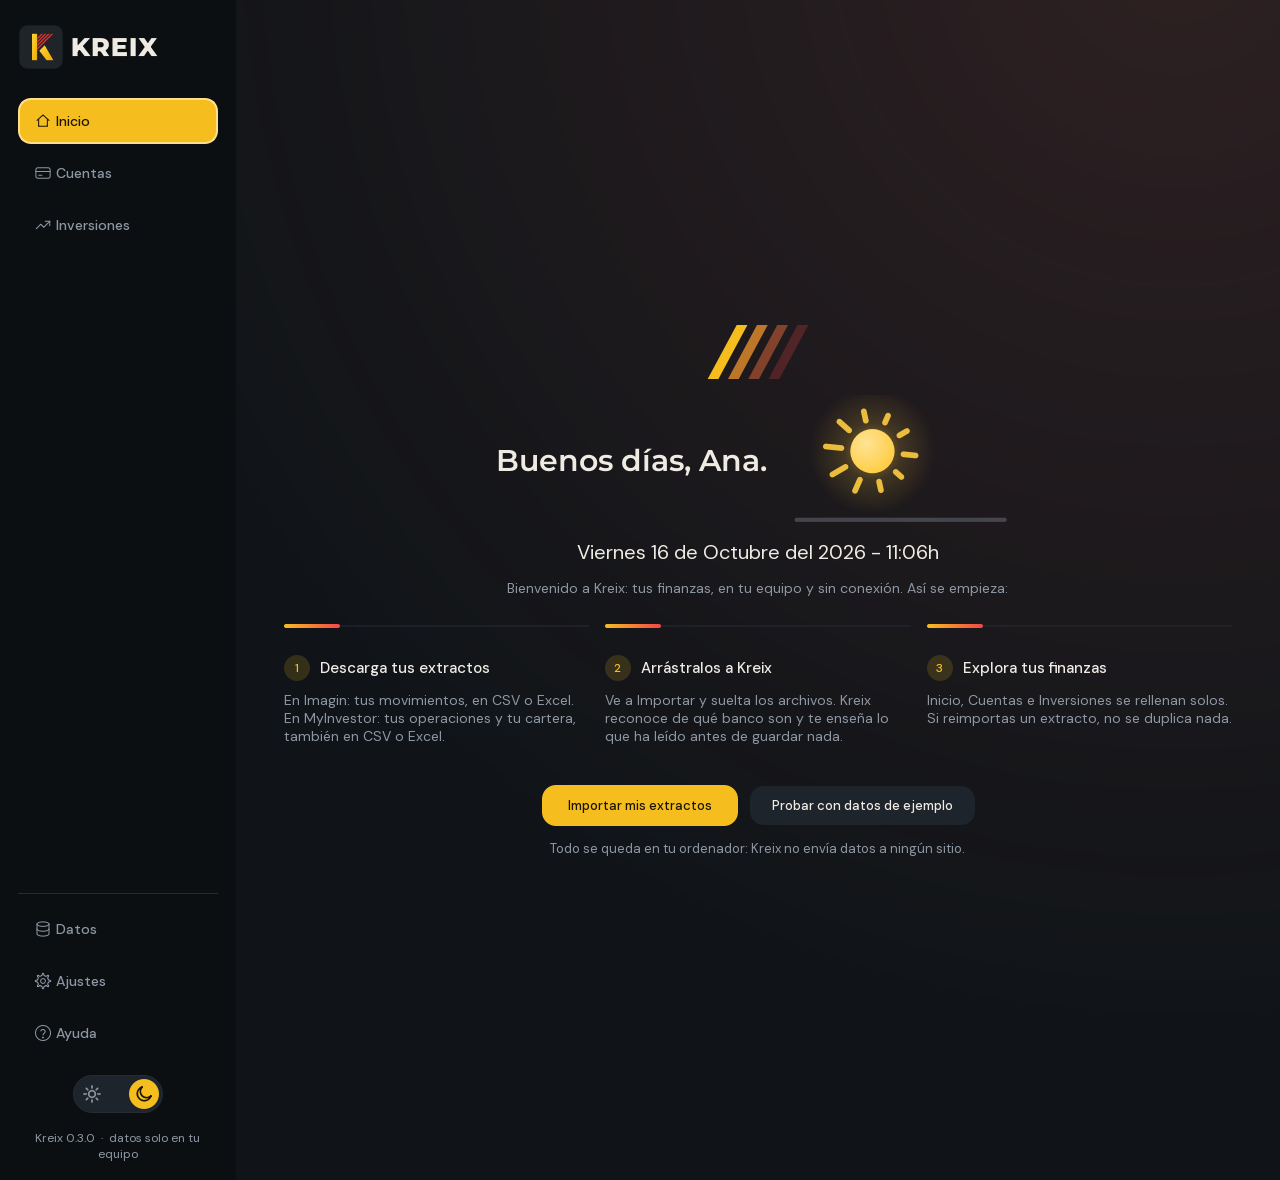
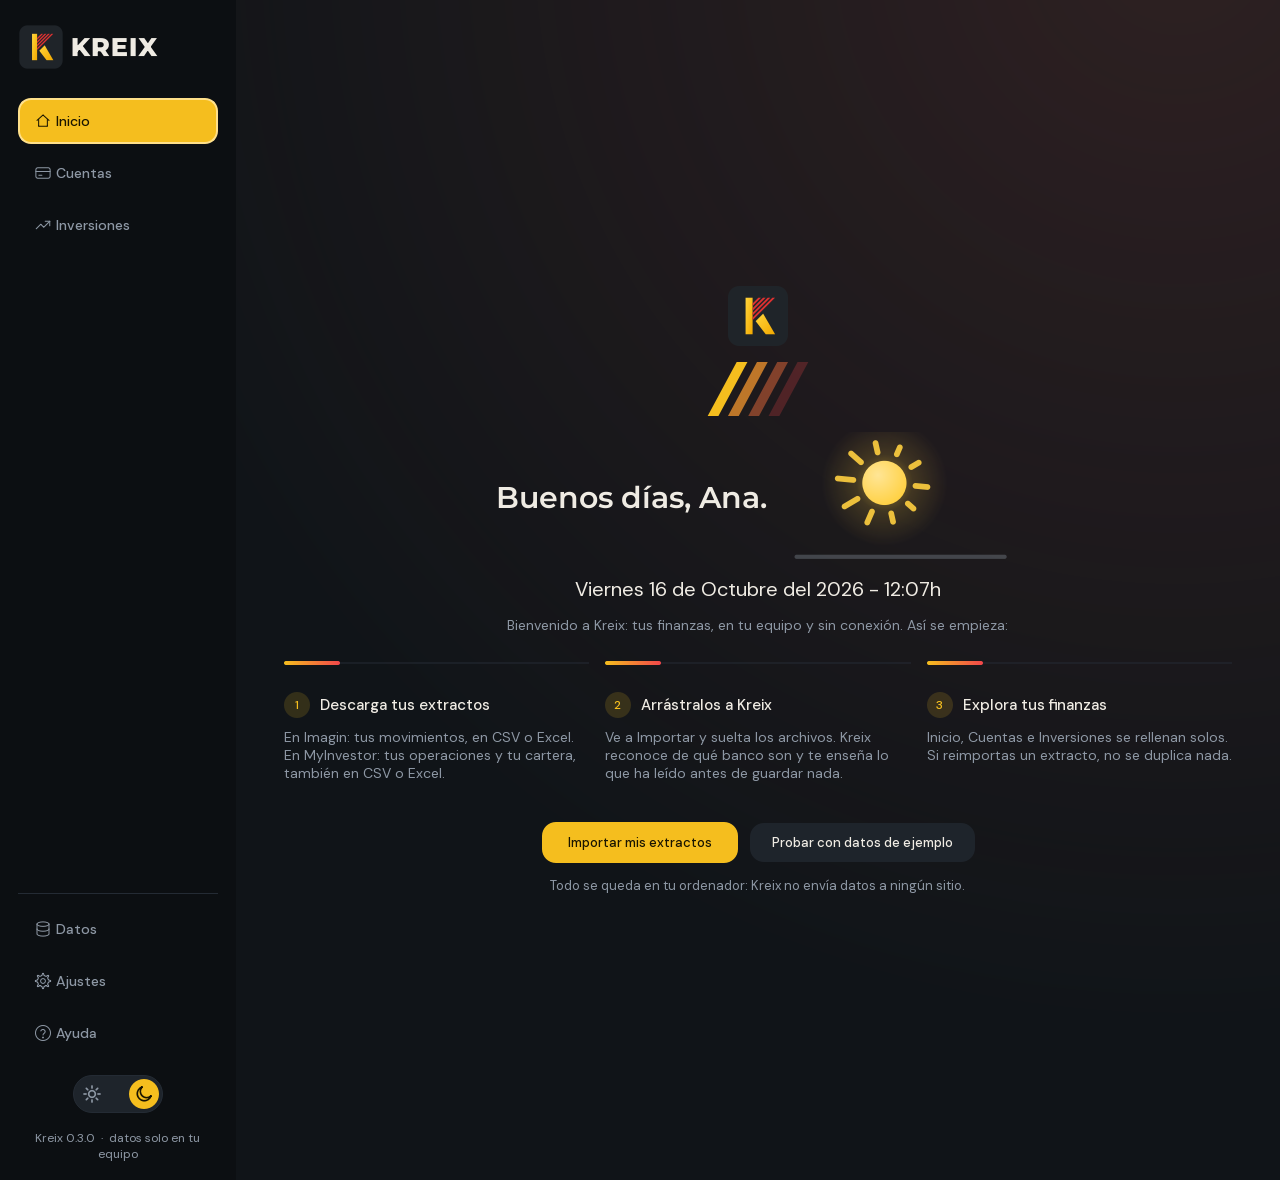
La K de Kreix sobre las cuatro barras en la pantalla inicial

Changed region(s): [[0.2188, 0.3356, 0.9688, 0.7322], [0.375, 0.2441, 0.625, 0.4271]]

diff --git a/ui/widgets/onboarding.py b/ui/widgets/onboarding.py
@@ -5,7 +5,7 @@ from PySide6.QtCore import QPointF, QRectF, QSize, Qt, Signal
 from PySide6.QtGui import QColor, QLinearGradient, QPainter, QPen, QRadialGradient
 from PySide6.QtWidgets import QFrame, QHBoxLayout, QLabel, QPushButton, QVBoxLayout, QWidget
 
-from ui import theme
+from ui import assets, theme
 from ui.widgets.cards import StripeMark, flatten
 from ui.widgets.panels import Panel
 from ui.widgets.sky import SkyWidget
@@ -31,6 +31,10 @@ class Onboarding(QWidget):
         super().__init__()
         self.setObjectName("Page")
         stripes = StripeMark(112, 58, centered=True)
+        self.logo = QLabel()                                   # la K de Kreix, justo encima de las cuatro barras
+        self.logo.setPixmap(assets.mark(60))
+        self.logo.setAccessibleName("Kreix")
+        self.logo.setAlignment(Qt.AlignmentFlag.AlignCenter)
         self.title = QLabel(tr("Bienvenido a Kreix"))
         title = self.title
         title.setObjectName("H1")
@@ -81,6 +85,7 @@ class Onboarding(QWidget):
         column.setContentsMargins(48, 28, 48, 28)
         column.setSpacing(14)
         column.addStretch(1)
+        column.addWidget(self.logo, 0, Qt.AlignmentFlag.AlignCenter)
         column.addWidget(stripes, 0, Qt.AlignmentFlag.AlignCenter)
         column.addLayout(title_row)
         column.addWidget(self.date_line)
